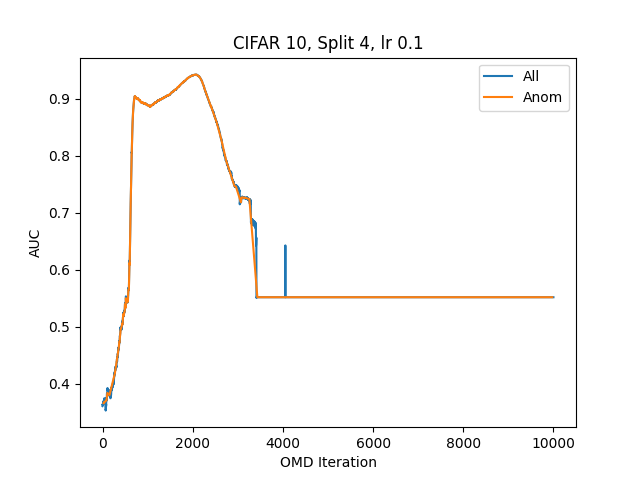
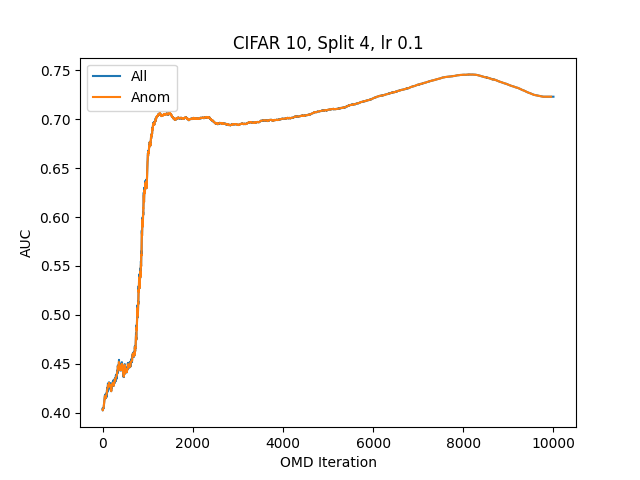
Bug fixed?

diff --git a/oracle_omd.py b/oracle_omd.py
@@ -615,7 +615,7 @@ def main():
         for j in range(NUM_SPLITS): 
             
              # To revert, replace j with SPLIT
-             anom_classes = [CIFAR_CLASSES[i] for k in splits[SPLIT]]
+             anom_classes = [CIFAR_CLASSES[k] for k in splits[j]]
              # DEBUG
              #print(anom_classes)
              # GUBED
@@ -676,7 +676,7 @@ def main():
          
 	
              # Note that the train_latent_df is used for determining the initial weight vector
-             w, clf_omd, wprior = omd(train_latent_df, val_latent_df, anom_classes, j, strategy="max", learning_rate=learning_rates[i])
+             w, clf_omd, wprior = omd(train_latent_df, val_latent_df, anom_classes, j, learning_rate=learning_rates[i])
 
          	
              # Construct test set and embed test examples
@@ -771,7 +771,7 @@ def main():
              #X = data_df.drop(columns=['label'])
          
              # Note that the train_latent_df is used for determining the initial weight vector
-             T_vec, auc_vec, anom_iters, anom_auc, oracle_labels = omd_test(train_latent_df, val_latent_df, anom_classes, j, kn_unkn_test_loda_tx, test_target, wprior, strategy="max", learning_rate=learning_rates[i])
+             T_vec, auc_vec, anom_iters, anom_auc, oracle_labels = omd_test(train_latent_df, val_latent_df, anom_classes, j, kn_unkn_test_loda_tx, test_target, wprior, learning_rate=learning_rates[i])
             
              # Write results to file for further analysis (anomaly isolation, etc.)
              auc_omd_iters_filename = os.path.join(MODEL_DATA_DIRECTORY, 'auc_omd_iters_{}_lr{}.npy'.format(j,i))              
